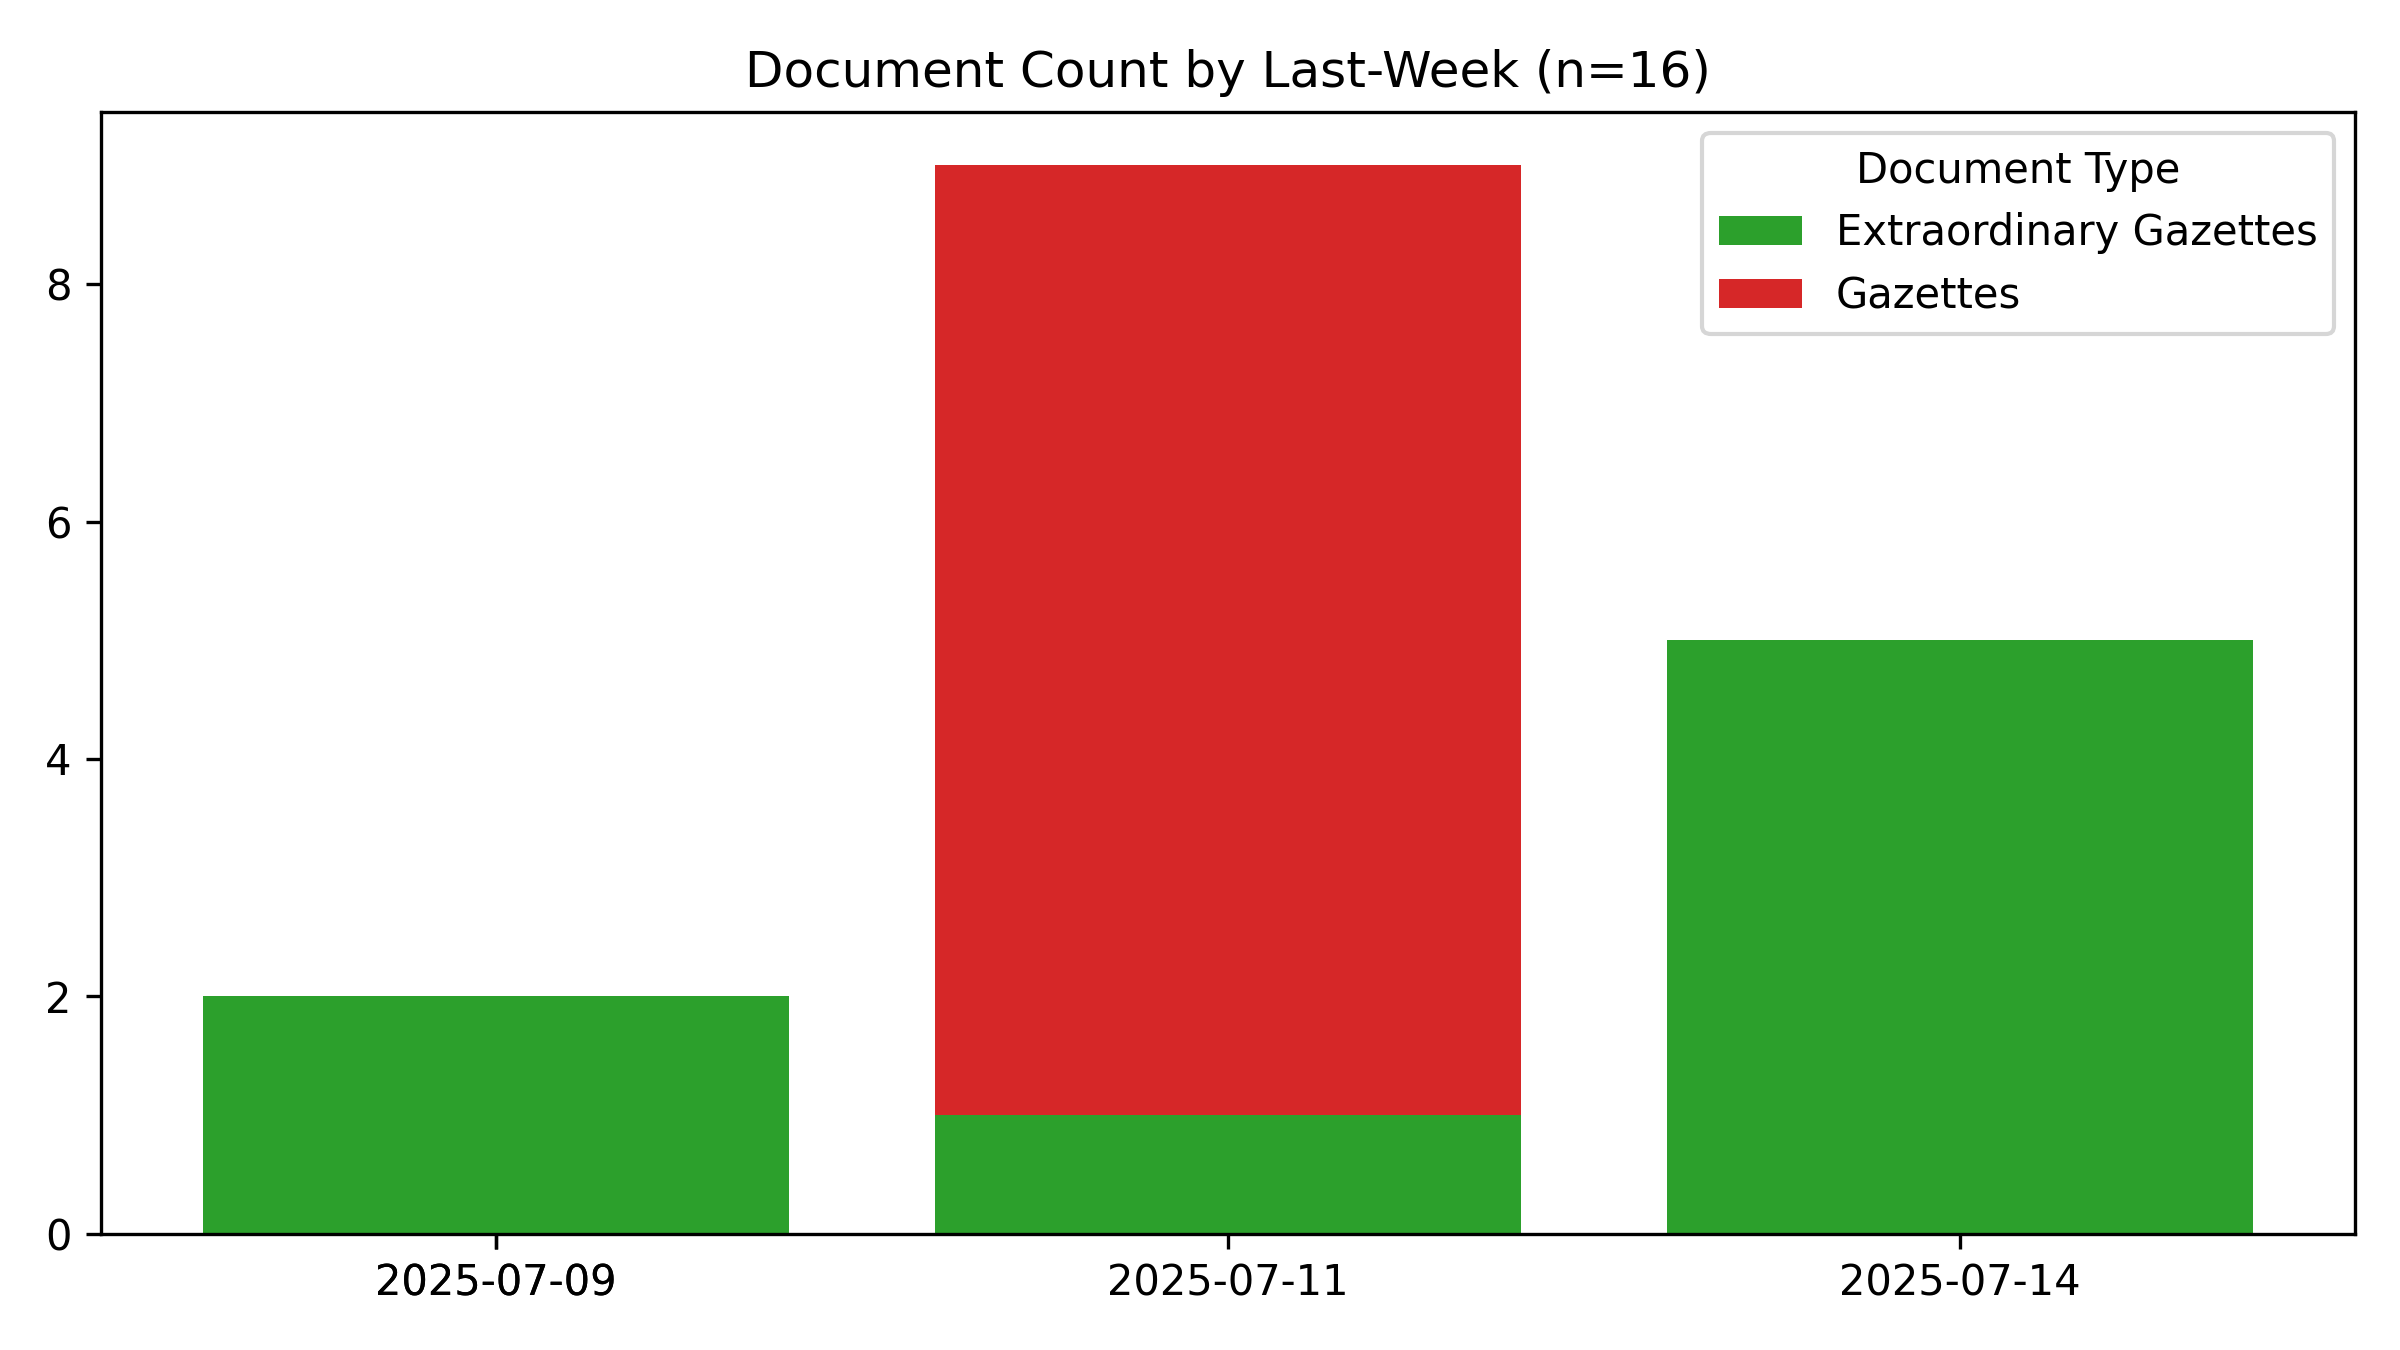
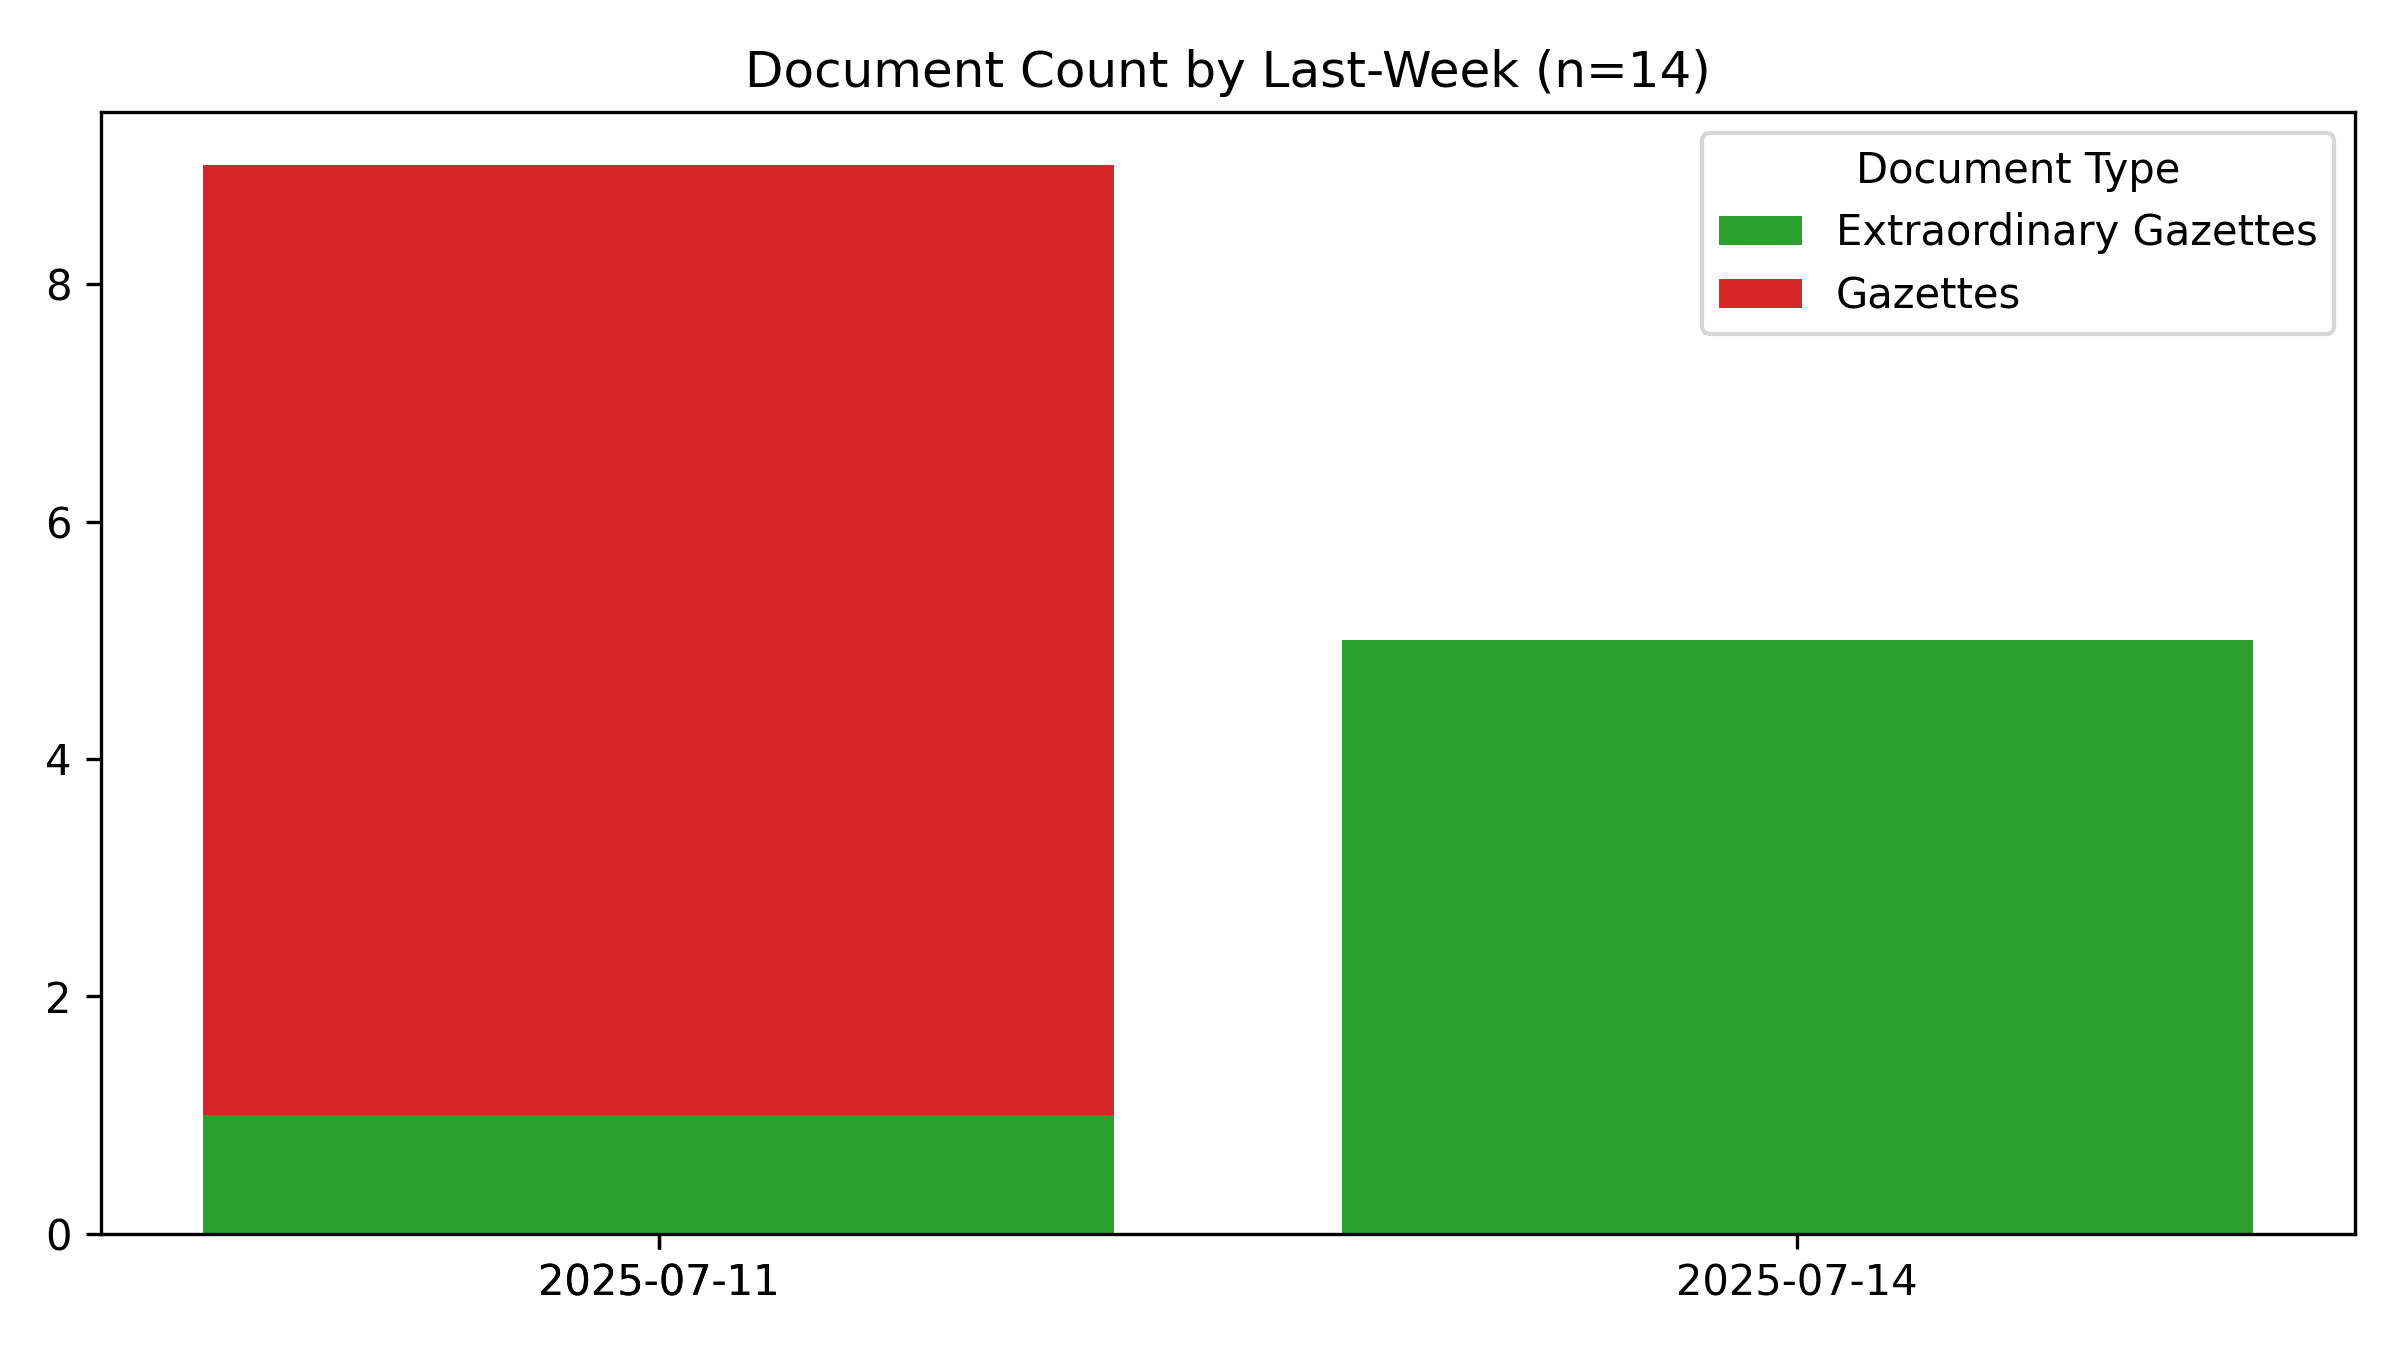
🤖 [data_scraper.yml] 2025-07-17-0007

diff --git a/README.md b/README.md
@@ -1,6 +1,6 @@
 # #SriLanka 🇱🇰 - Legal Documents #Dataset
 
-*Last Updated **2025-07-17 05:22:01**.*
+*Last Updated **2025-07-17 05:37:28**.*
 
 **44,017** documents (40.9 MB), from 1981-01-22 to 2025-07-14.
 
@@ -16,7 +16,7 @@ A collection of 📢 Gazettes, 🚨 Extraordinary Gazettes, 🏛 Acts, ✍
 
 #Legal #OpenData #GovTech
 
-📄 Currently, 40,162 PDFs (16.8 GB) for **14,587** documents (33.1%) have been downloaded. Final data size is estimated to be ~51 GB.
+📄 Currently, 40,231 PDFs (16.8 GB) for **14,610** documents (33.2%) have been downloaded. Final data size is estimated to be ~51 GB.
 
 ## 🆕 The Legal Documents App
 
@@ -45,7 +45,7 @@ For best results, use a desktop browser.
 
 ## Recent Documents (Published during the last 7 days)
 
-**16** Documents
+**14** Documents
 
 - 🚨 [2025-07-14] [2445/05](https://github.com/nuuuwan/lk_legal_docs_data/tree/main/data/extra-gazettes/2025/2445-05)
 - 🚨 [2025-07-14] [2445/04](https://github.com/nuuuwan/lk_legal_docs_data/tree/main/data/extra-gazettes/2025/2445-04)
@@ -61,5 +61,3 @@ For best results, use a desktop browser.
 - 📢 [2025-07-11] [(IIB) - Advertising](https://github.com/nuuuwan/lk_legal_docs_data/tree/main/data/gazettes/2025/2025-07-11-iib-advertising)
 - 📢 [2025-07-11] [(IIA) - Advertising](https://github.com/nuuuwan/lk_legal_docs_data/tree/main/data/gazettes/2025/2025-07-11-iia-advertising)
 - 📢 [2025-07-11] [(I) - General](https://github.com/nuuuwan/lk_legal_docs_data/tree/main/data/gazettes/2025/2025-07-11-i-general)
-- 🚨 [2025-07-09] [Department of Local Government - Southern Province - Notice Under Section 66 C (1) Appointed Mayor, Deputy Mayor, Chairman and Vice Chairman for 14 L.G. Institutions](https://github.com/nuuuwan/lk_legal_docs_data/tree/main/data/extra-gazettes/2025/2444-31)
-- 🚨 [2025-07-09] [2444/26](https://github.com/nuuuwan/lk_legal_docs_data/tree/main/data/extra-gazettes/2025/2444-26)
